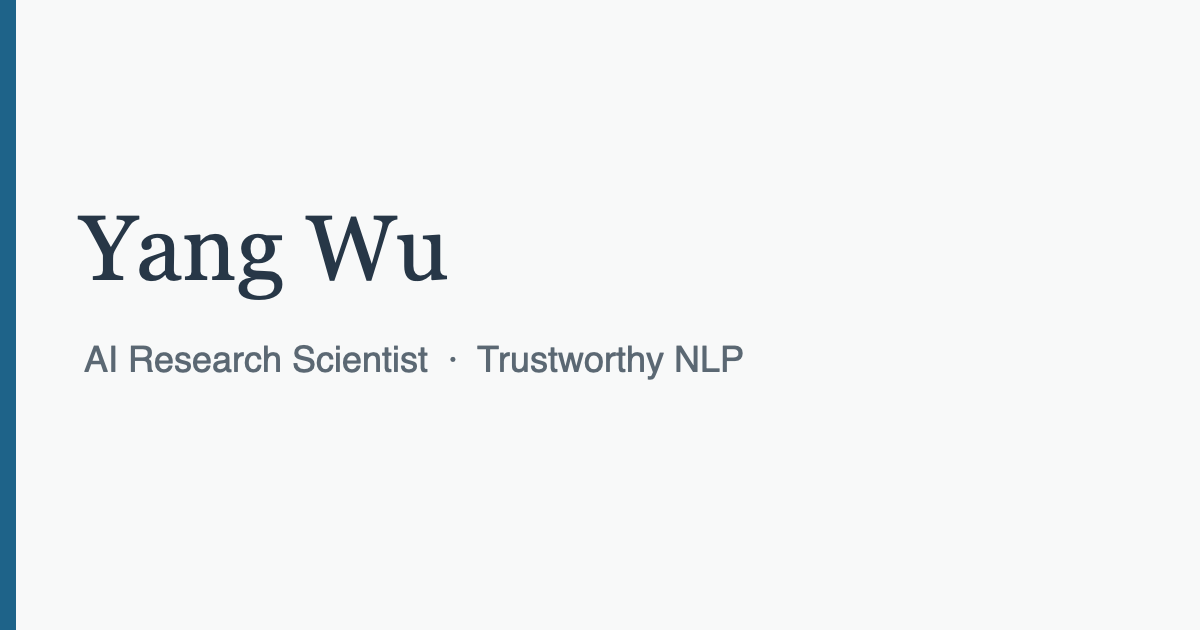
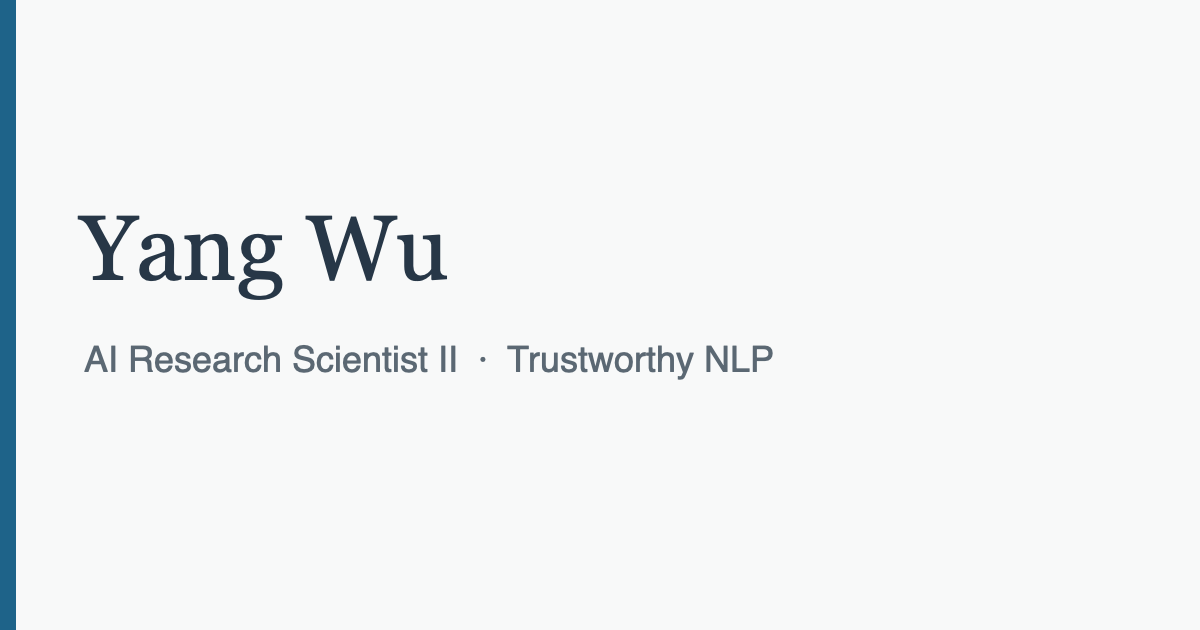
Use AI Research Scientist II in the site description and Professor Xiaozhong Liu for the advisor.

Changed region(s): [[0.37, 0.5429, 0.6475, 0.6032]]

diff --git a/_pages/about.md b/_pages/about.md
@@ -7,9 +7,9 @@ redirect_from:
   - /about.html
 ---
 
-I am an AI Research Scientist at Axon in Boston. I work on trustworthy natural language processing and large language models, combining data-efficient training, human-centered feedback, and domain-adaptive reasoning. The applications I care about are legal reasoning, biomedical discovery, personalized education, and public safety.
+I am an AI Research Scientist II at Axon in Boston. I work on trustworthy natural language processing and large language models, combining data-efficient training, human-centered feedback, and domain-adaptive reasoning. The applications I care about are legal reasoning, biomedical discovery, personalized education, and public safety.
 
-I received my Ph.D. in Computer Science from Worcester Polytechnic Institute in May 2026, advised by Xiaozhong Liu. My dissertation is *Advancing the Proactive Capacity of LLMs in Cost-Sensitive Domains*. Before that, I earned an M.P.S. in Analytics from Northeastern University and a B.S. in Material Engineering from Wuhan University.
+I received my Ph.D. in Computer Science from Worcester Polytechnic Institute in May 2026, advised by Professor Xiaozhong Liu. My dissertation is *Advancing the Proactive Capacity of LLMs in Cost-Sensitive Domains*. Before that, I earned an M.P.S. in Analytics from Northeastern University and a B.S. in Material Engineering from Wuhan University.
 
 Research
 ======

diff --git a/_pages/cv.md b/_pages/cv.md
@@ -15,7 +15,7 @@ Education
 ======
 * Ph.D. in Computer Science, Worcester Polytechnic Institute, Worcester, MA, May 2026
   * Dissertation: *Advancing the Proactive Capacity of LLMs in Cost-Sensitive Domains*
-  * Advisor: Xiaozhong Liu
+  * Advisor: Professor Xiaozhong Liu
 * M.P.S. in Analytics, Northeastern University, Boston, MA, Apr 2021
 * B.S. in Material Engineering, Wuhan University, Wuhan, China, Jun 2018
 
